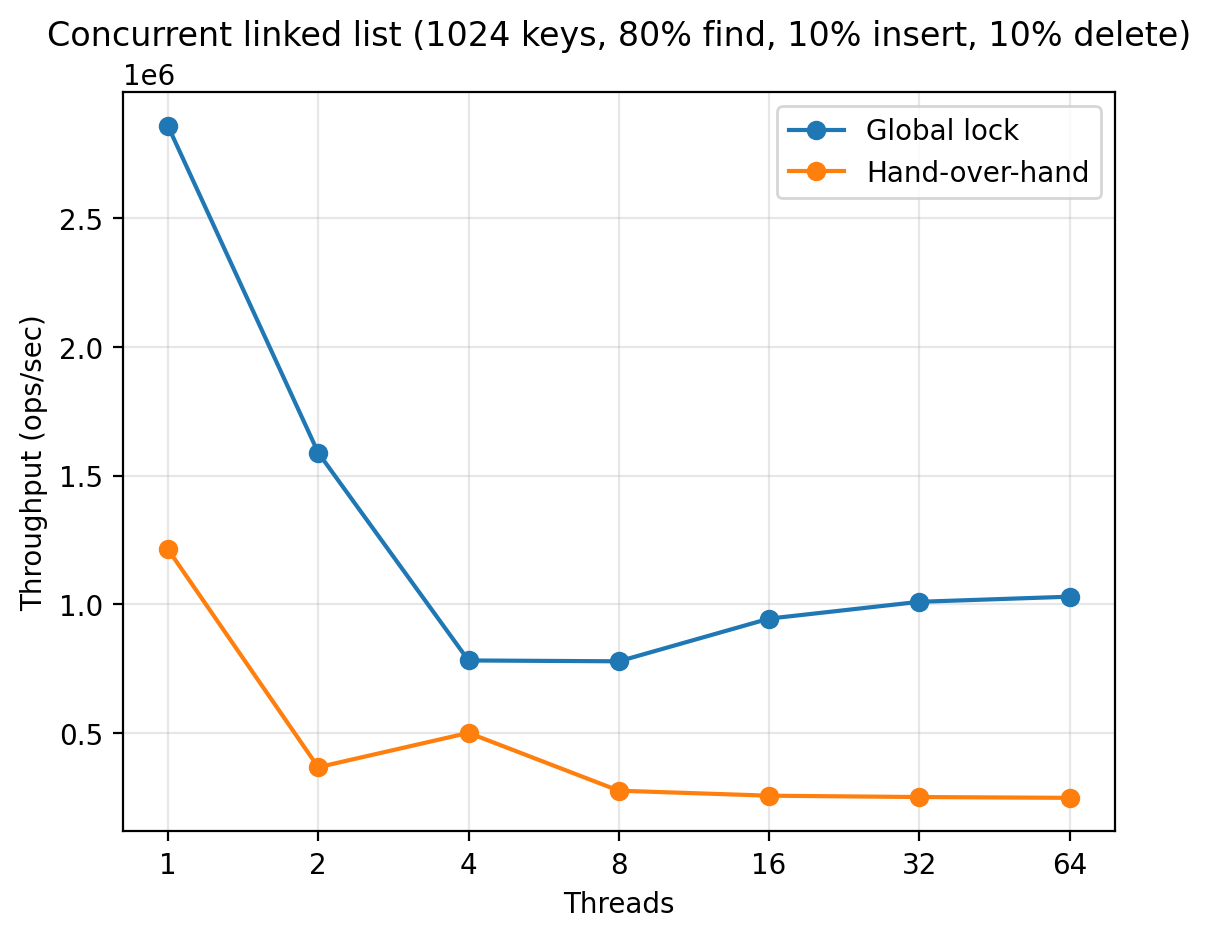
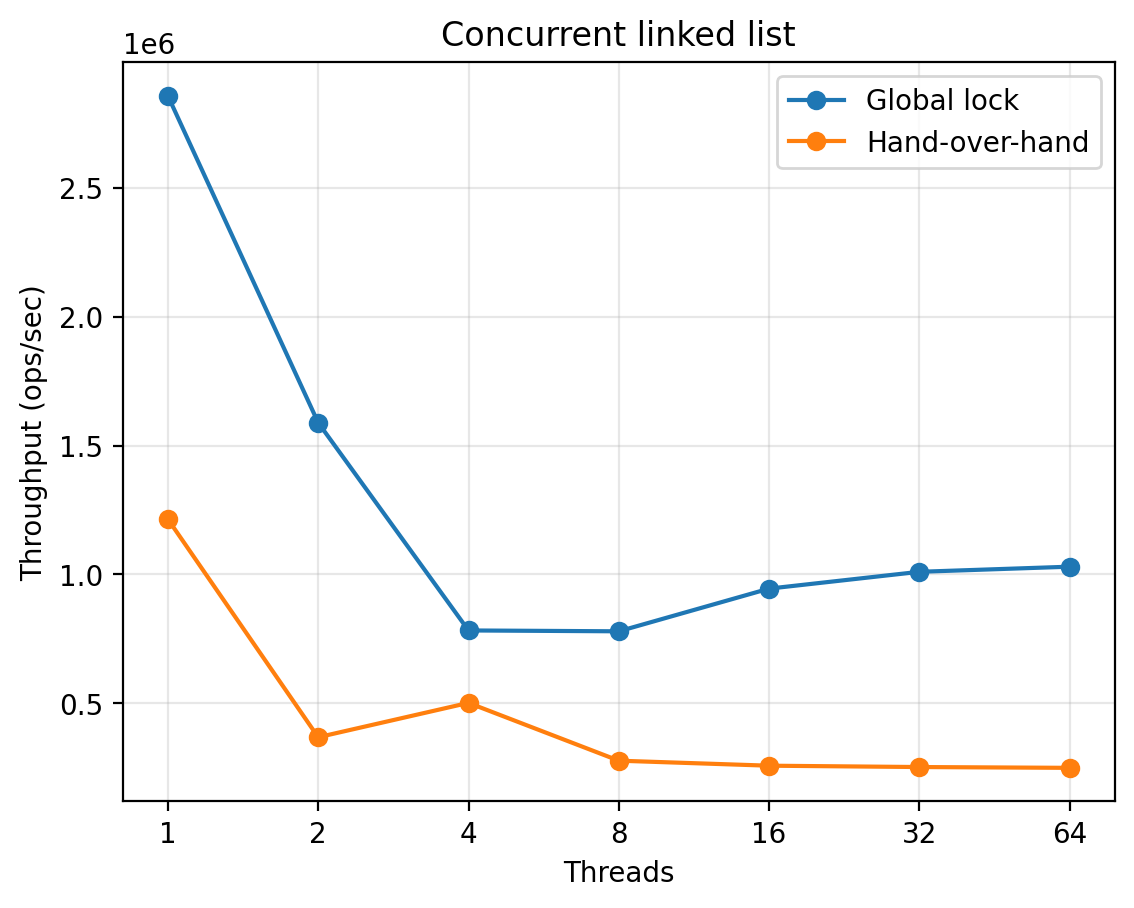
Readme

Changed region(s): [[0.0, 0.0, 0.9877, 0.9868]]

diff --git a/plot.py b/plot.py
@@ -19,7 +19,7 @@ plt.xscale("log", base=2)
 plt.xticks(threads, [str(t) for t in threads])
 plt.xlabel("Threads")
 plt.ylabel("Throughput (ops/sec)")
-plt.title("Concurrent linked list (1024 keys, 80% find, 10% insert, 10% delete)")
+plt.title("Concurrent linked list")
 plt.grid(alpha=0.3)
 plt.legend()
 plt.savefig("throughput.png", dpi=200, bbox_inches="tight")

diff --git a/Readme.md b/Readme.md
@@ -1,0 +1,24 @@
+# Assignment 5
+
+![Result](throughput.png)
+
+**(a) What was your initial conjecture on whether one will perform better than the other or both will perform the same?**
+
+Ans. My initial conjecture is that since a hand over hand lock based list involves more locking and unlocking, there will be additional overheads. This will negatively impact throughput (ops/sec). But, the added benefit of parallelism i.e. more threads running simultaneously as opposed to global lock based list where one operation runs at a time might compensate for that overhead.
+
+**(b) What is your final conclusion after you see the plots?**
+
+Ans. The overhead did affect the throughput in hand-over-hand lock based list. But, parallelism did not compensate for it. The global lock list is faster at every thread count. And, neither list gained throughput from more threads. 
+
+Global Lock List vs Hand-over-hand lock List:
+
+- In a hand-over-hand lock based list, each operation passes through many nodes and locks and unlocks each one. The global lock list locks once per operation.
+- Parallelism is limited. A thread cannot pass a slower thread ahead of it since every operation starts at the head.
+
+Both througputs drop sharply with increasing threads because handing a lock from one core to another costs more than the compensation from extra threads.
+
+**(c) How did you use LLM to complete the assignment?**
+
+Ans. I generated the benchmarking script that gives a result.csv file at the end, and a small python file to make a matplotlib plot for the csv file. I also used it to understand additional reasonings behind the plot.
+
+
